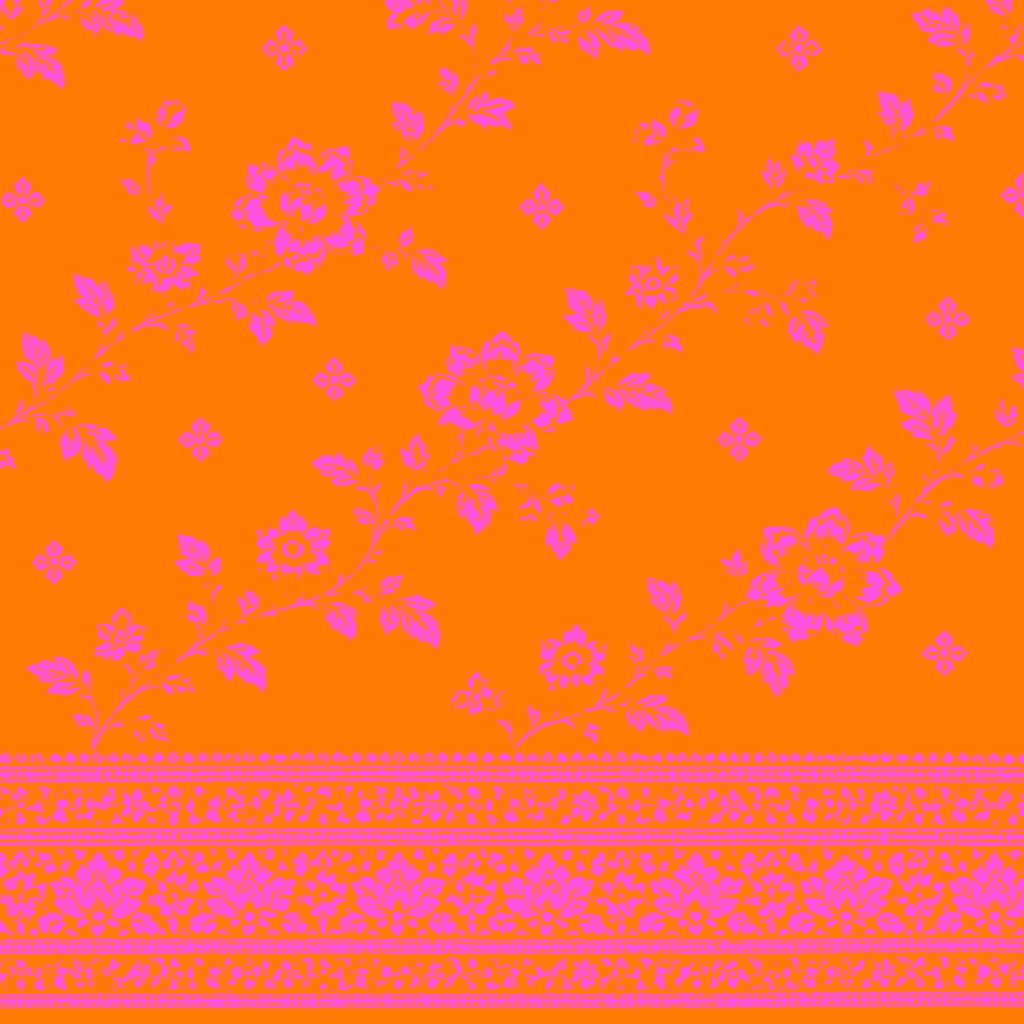
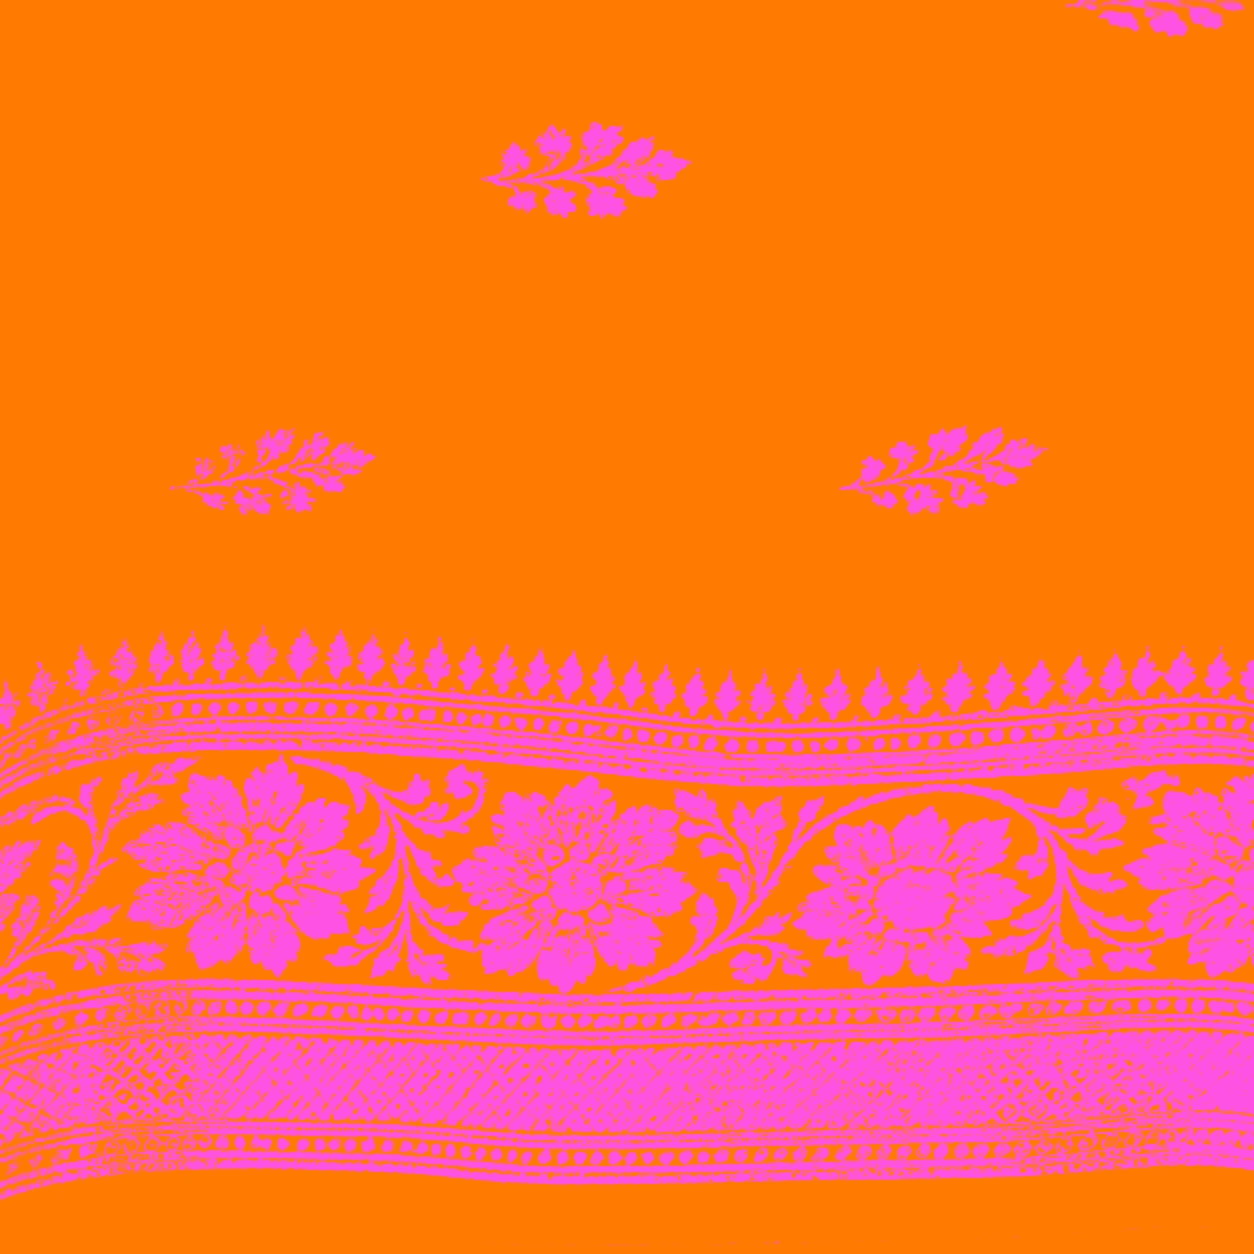
Rebuild the maroon saree top from its cut-out

diff --git a/src/components/drape/data.ts b/src/components/drape/data.ts
@@ -30,7 +30,7 @@ export interface Saree {
 }
 
 export const SAREES: Saree[] = [
-  { id: 'maroon', name: 'Banarasi Maroon', fabric: 'Pure silk · gold zari', note: 'Woven buttas and a heavy brocade border — made for the wedding day.', tags: ['Silk', 'Bridal', 'Festive'], sheen: '#ffb38a', tint: '#f7c4cc', roughness: 0.48, zari: 1, weave: 'silk', shape: { h: 0.4, hollow: 0.1, rim: 0.1, ridge: 0.032, layers: 6.5, wave: 0.024 } },
+  { id: 'maroon', name: 'Banarasi Maroon', fabric: 'Pure silk · gold zari', note: 'Woven buttas and a heavy brocade border — made for the wedding day.', tags: ['Silk', 'Bridal', 'Festive'], sheen: '#ffb38a', tint: '#d2c0c6', roughness: 0.48, zari: 1, weave: 'silk', shape: { h: 0.4, hollow: 0.1, rim: 0.1, ridge: 0.032, layers: 6.5, wave: 0.024 } },
   { id: 'ivory', name: 'Ivory Organza', fabric: 'Organza · resham florals', note: 'Featherlight, with hand-embroidered pink blooms and a gota border.', tags: ['Organza', 'Bridal'], sheen: '#fff1e2', tint: '#ffffff', roughness: 0.42, zari: 0.9, weave: 'organza', shape: { h: 0.34, hollow: 0.14, rim: 0.13, ridge: 0.036, layers: 5, wave: 0.034 } },
   { id: 'navy', name: 'Midnight Velvet', fabric: 'Velvet · zardozi', note: 'Deep navy pile with raised gold zardozi and ruby stones.', tags: ['Velvet', 'Festive'], sheen: '#5d6bd6', tint: '#dcdfff', roughness: 0.85, zari: 1, weave: 'velvet', shape: { h: 0.42, hollow: 0.09, rim: 0.1, ridge: 0.03, layers: 7, wave: 0.02 } },
   { id: 'black', name: 'Noir Silk', fabric: 'Silk · crimson resham', note: 'Black silk with crimson and gold florals for evening occasions.', tags: ['Silk', 'Festive'], sheen: '#ffd2b0', tint: '#dcdce2', roughness: 0.46, zari: 1, weave: 'silk', shape: { h: 0.38, hollow: 0.11, rim: 0.11, ridge: 0.033, layers: 6, wave: 0.028 } },

diff --git a/CLAUDE.md b/CLAUDE.md
@@ -259,6 +259,7 @@ Owner request: append an entry here after every change session.
 - **2026‑11‑05** — Owner: golds look washed out; reds/pinks too. `bake-drape-maps.mjs` now adds a **vibrance** pass after the tint: gold zari pixels (`goldness` mask) get saturation ×(1+0.7) and drift 35 % toward a true gold hue (≈42°); red/pink pixels (hue 316–360 & 0–16°, sat > 0.26) get ×(1+0.45); silk grounds and creams are untouched. Re-baked all `public/drape/{top,edge}-*-col.webp`. Tune `GOLD_SAT` / `RED_SAT` in the script and re-run it. Zari metalness/roughness maps unchanged.
 - **2026‑11‑05** — Owner: make the black saree match `assets/Transparent cut-outs…/Black Silk Saree with Gold Zari Embroidery.png` (black ground, crimson florals, gold sprigs, crimson + gold border). Rectified that photo's top face to a flat 1254² texture with a homography warp (quad corners in image px: (118,444) (690,25) (1450,470) (892,962) → TL,TR,BR,BL; border ends at the bottom/front) and installed it as `public/drape/top-black.webp`; the old black top texture (`Black Silk Brocade with Crimson Florals.png`) is still in `assets/`. Black tint `#5a5c66` → `#dcdce2` (the old tint was darkening the reds to brown); re-baked. Edge texture unchanged. If liked, repeat for the other four sarees from their cut-outs.
 - **2026‑11‑05** — Owner: navy saree to match `Embroidered Navy Velvet Saree Fold.png`, with **red gems in every flower centre** (like `assets/saree-textures/5th Navy Silk…`). Same method as the black saree: homography-rectified the cut-out's top face (corners (98,432) (690,15) (1470,478) (888,968)), then painted ten ruby cabochons (gold bezel, dark socket, facets, white glint) over the pearl centres at hand-picked positions (radius 4–10 px at 700 px scale) → `public/drape/top-navy.webp`. Navy tint `#a3abf2` → `#dcdfff` so the rubies stay red; re-baked. Edge texture unchanged.
+- **2026‑11‑05** — Owner: maroon saree to match `Folded Maroon Silk Saree with Gold Brocade.png` (the Bundle-textures brocade was the old source). Same recipe: homography-rectified the cut-out's top face (corners (122,436) (690,34) (1428,445) (878,934)) → `public/drape/top-maroon.webp` (deep wine ground, sparse gold buttas, wide gold border at the front). Tint `#f7c4cc` → `#d2c0c6` (keeps the ground burgundy under the scene lights); re-baked. The old, denser vine texture (`Maroon Silk Gold Floral Zari Brocade.png`) is still in `assets/` if the owner prefers it.
 
 ## Next / ideas
 
